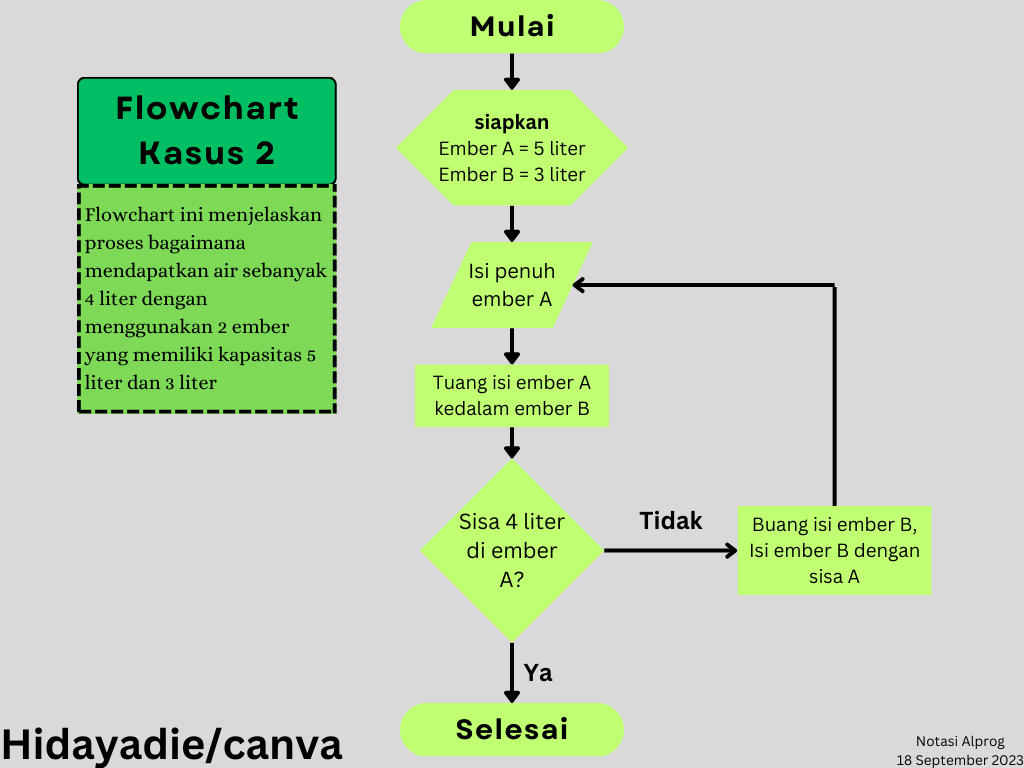
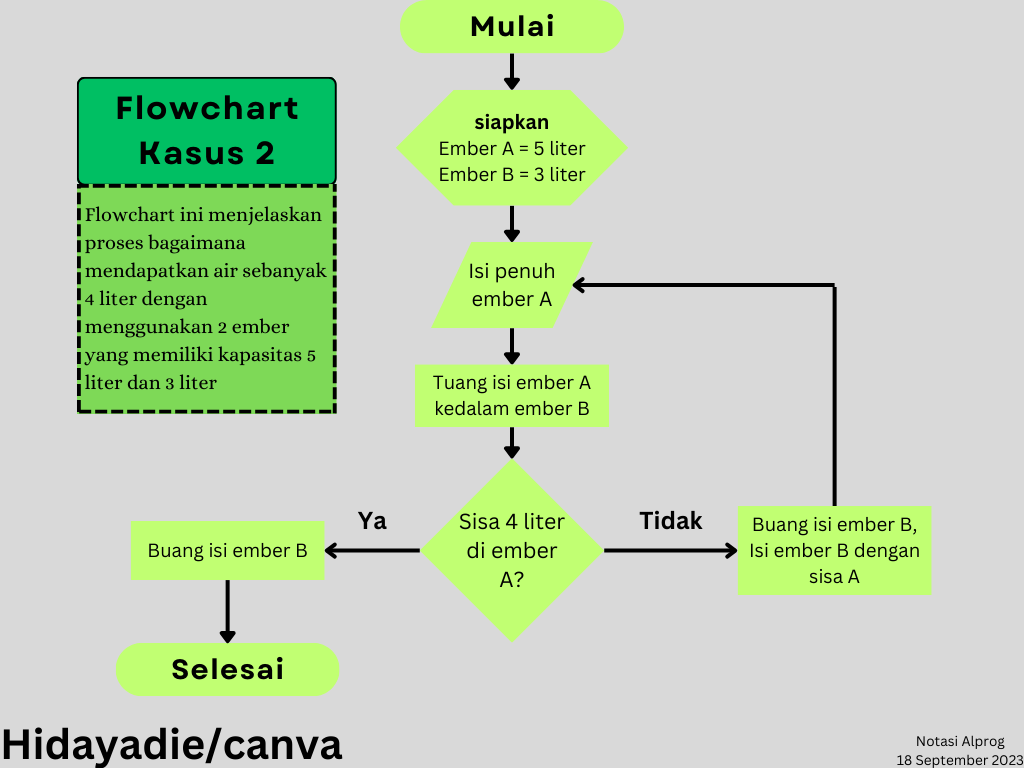
save backup

Changed region(s): [[0.0938, 0.6562, 0.4062, 0.9062], [0.375, 0.8438, 0.625, 1.0]]

diff --git a/M3_Notasi/README.md b/M3_Notasi/README.md
@@ -1,18 +1,51 @@
 # Tugas Notasi Algoritma & Pemrograman
 
 ## Kasus 1 (Menukar isi variabel)
-    Diketahui terdapat 2 variabel yang masing masing berbeda isinya, anggap saja gelas dengan gelas 
-    pertama berisi teh dan gelas kedua berisi kopi. Kita diminta untuk menukar isi dari kedua gelas 
-    tersebut menjadi kebalikannya (gelas pertama menjadi berisi kopi, sedangkan gelas kedua berisi 
-    teh).
+Diketahui terdapat 2 variabel yang masing masing berbeda isinya, anggap saja gelas dengan gelas pertama berisi teh dan gelas kedua berisi kopi. Kita diminta untuk menukar isi dari kedua gelas tersebut menjadi kebalikannya (gelas pertama menjadi berisi kopi, sedangkan gelas kedua berisi teh).
 
-    Pemecahan masalah ini bisa kita selesaikan dengan menggunakan algoritma dengan sebagai berikut,
-    1. Semula kita memiliki 2 gelas tersebut dengan isinya masing masing.
-    2. Lalu kita mengambil gelas kosong baru sebagai tempat untuk menyimpan sementara.
-    3. kita menukar isi gelas tersebut dengan cara isi gelas pertama kita tuangkan kedalam gelas baru 
-       sehinga gelas A kosong, disaat itu kita dapat menukar isi gelas B kedalam gelas A karena 
-       kosong. Hal ini mengakibatkan gelas B menjadi kosong, dan kita bisa mengisinya dengan gelas 
-       sementara kita tadi. Sehingga didapatkannya gelas A dan B yang isinya telah ditukar.
+Pemecahan masalah ini bisa kita selesaikan dengan menggunakan algoritma dengan sebagai berikut,
+1. Semula kita memiliki 2 gelas tersebut dengan isinya masing masing.
+2. Lalu kita mengambil gelas kosong baru sebagai tempat untuk menyimpan sementara.
+3. kita menukar isi gelas tersebut dengan cara isi gelas pertama kita tuangkan kedalam gelas baru sehinga gelas A kosong, disaat itu kita dapat menukar isi gelas B kedalam gelas A karena kosong. Hal ini mengakibatkan gelas B menjadi kosong, dan kita bisa mengisinya dengan gelas sementara kita tadi. Sehingga didapatkannya gelas A dan B yang isinya telah ditukar.
 
-    Kita dapat mempresentasikan algoritma tersebut kedalam bentuk tabel flowchart sebagai berikut:
-    ![gambar tabel flowchart](berkas/Flowchart1.png)
+Kita dapat mempresentasikan algoritma tersebut kedalam bentuk tabel flowchart sebagai berikut:
+<img src="berkas/Flowchart1.png" alt="gambar tabel flowchart" width="700">
+Atau juga, kita bisa membuat pseudocode dari kasus tersebut menggunakan bahasa c++
+```cpp
+// include string,using namespace std,main,dsb
+...
+//Langkah 1, mendeklarasikan variabel gelas A dan B yang sebagai gelas awal kita
+string gelasA = "teh";  //mengisi gelas A dengan nilai teh
+string gelasB = "kopi"; //mengisi gelas B dengan nilai kopi
+
+//Langkah 2, kita mengambil gelas baru, yaitu C
+string gelasC; //kita membuat variabel baru yaitu gelas C dengan nilai kosong
+
+//Langkah 3, kita menukar isi dari gelas A dan B menggunakan bantuan gelas C
+gelasC = gelasA; // nilai dari C adalah nilai A
+gelasA = gelasB; // nilai dari A sekarang adalah nilai dari B
+gelasB = gelasC; // sekarang nilai dari B adalah nilai dari C yang dimana sebelumnya adalah nilai dari A
+
+/*
+Sekarang nilai dari gelas A dan B sudah tertukar,
+kita bisa mengeceknya dengan menggunakan cout.
+*/
+```
+Dengan begitu kasus penukaran isi variabel sudah kita selesaikan...
+
+## Kasus 2 (kasus loop sederhana menggunakan ember air)
+Sekarang kita memiliki 2 buah ember air, dimana ember pertama berkapasitas maksimal 5 liter sedankan ember kedua berkapasitas maksimal 3 liter. Kita diminta untuk mengambil air sebanyak 4 liter saja, bagaimana caranya?. Disini kita akan menggunakan cara berulang atau melakukan kembali hingga target telah tercapai.
+
+Kita bisa menyelesaikan permasalahan diatas dengan cara seperti berikut:
+1. Kita memiliki 2 buah ember, yaitu A yang berkapasitas 5 liter, dan B yang berkapasitas 3 liter
+2. Kita mengisisi ember A sampai penuh yaitu 5 liter
+3. Menuangkan isi dari ember A kedalam ember B hingga penuh, sehingga kita mendapat ember B berisi sebanyak 3 liter, sedangkan di ember A masih tersisa 2 liter.
+4. Kita buang isi dari ember B sehingga membuatnya kosong kembali.
+5. Masukkan sisa air pada ember A yaitu 2 liter kedalam ember B, sehingga ember B berisi 2 liter.
+6. Kita ulangi pengisian pada ember A, yaitu isi ember A sebanyak 5 liter hingga penuh.
+7. Lalu kita memasukkan isi ember A ke dalam ember B lagi, tetapi karena ember B sudah berisi 2 liter maka kita hanya mengurangi volume atau isi dari ember A sebanyak 1 liter.
+8. Karena 5 dikurangi 1 adalah 4 maka kita sudah berhasil mendapatkan air sebanyak 4 liter
+9. Jangan lupa membuang isi dari ember B karena kita hanya akan memerlukan sebanyak 4 liter
+
+Berikut tabel flowchart yang bisa menggambarkan penyelesaian tersebut:
+<img src="berkas/Flowchart2.png" alt="gambar flowchart 2" width="700"> 
